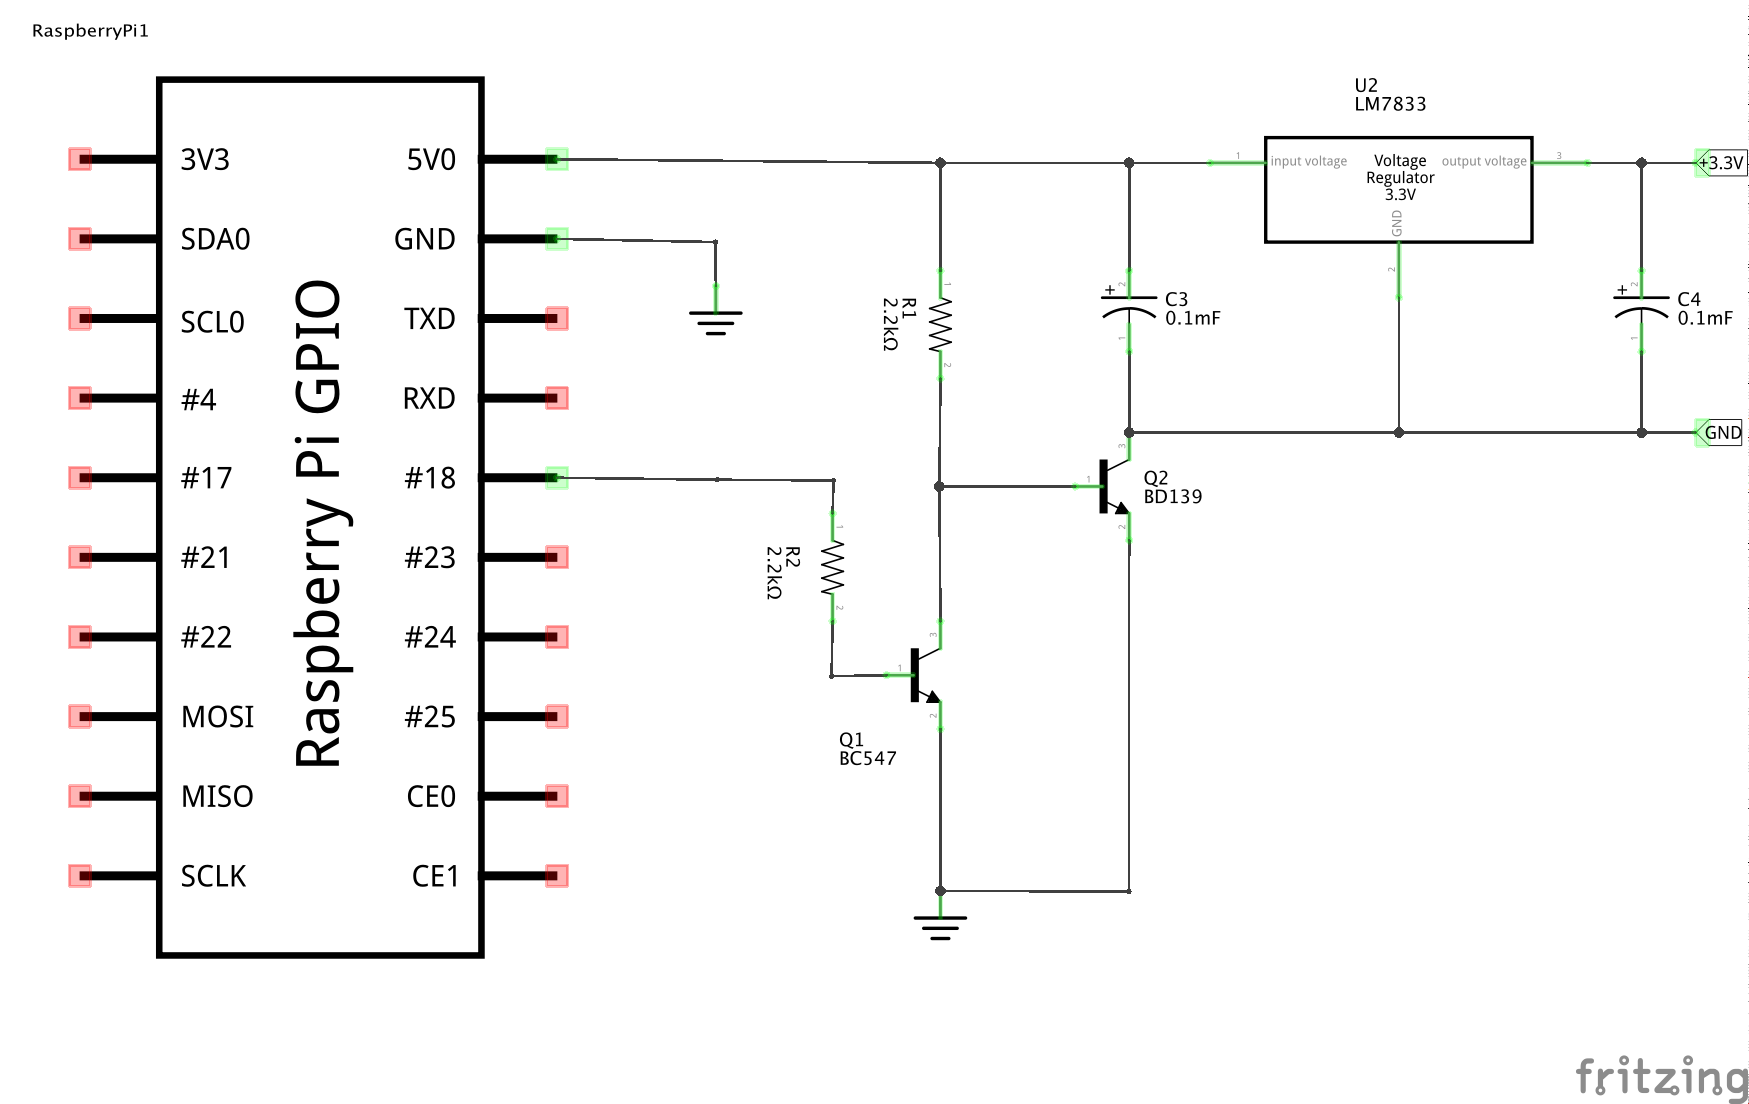
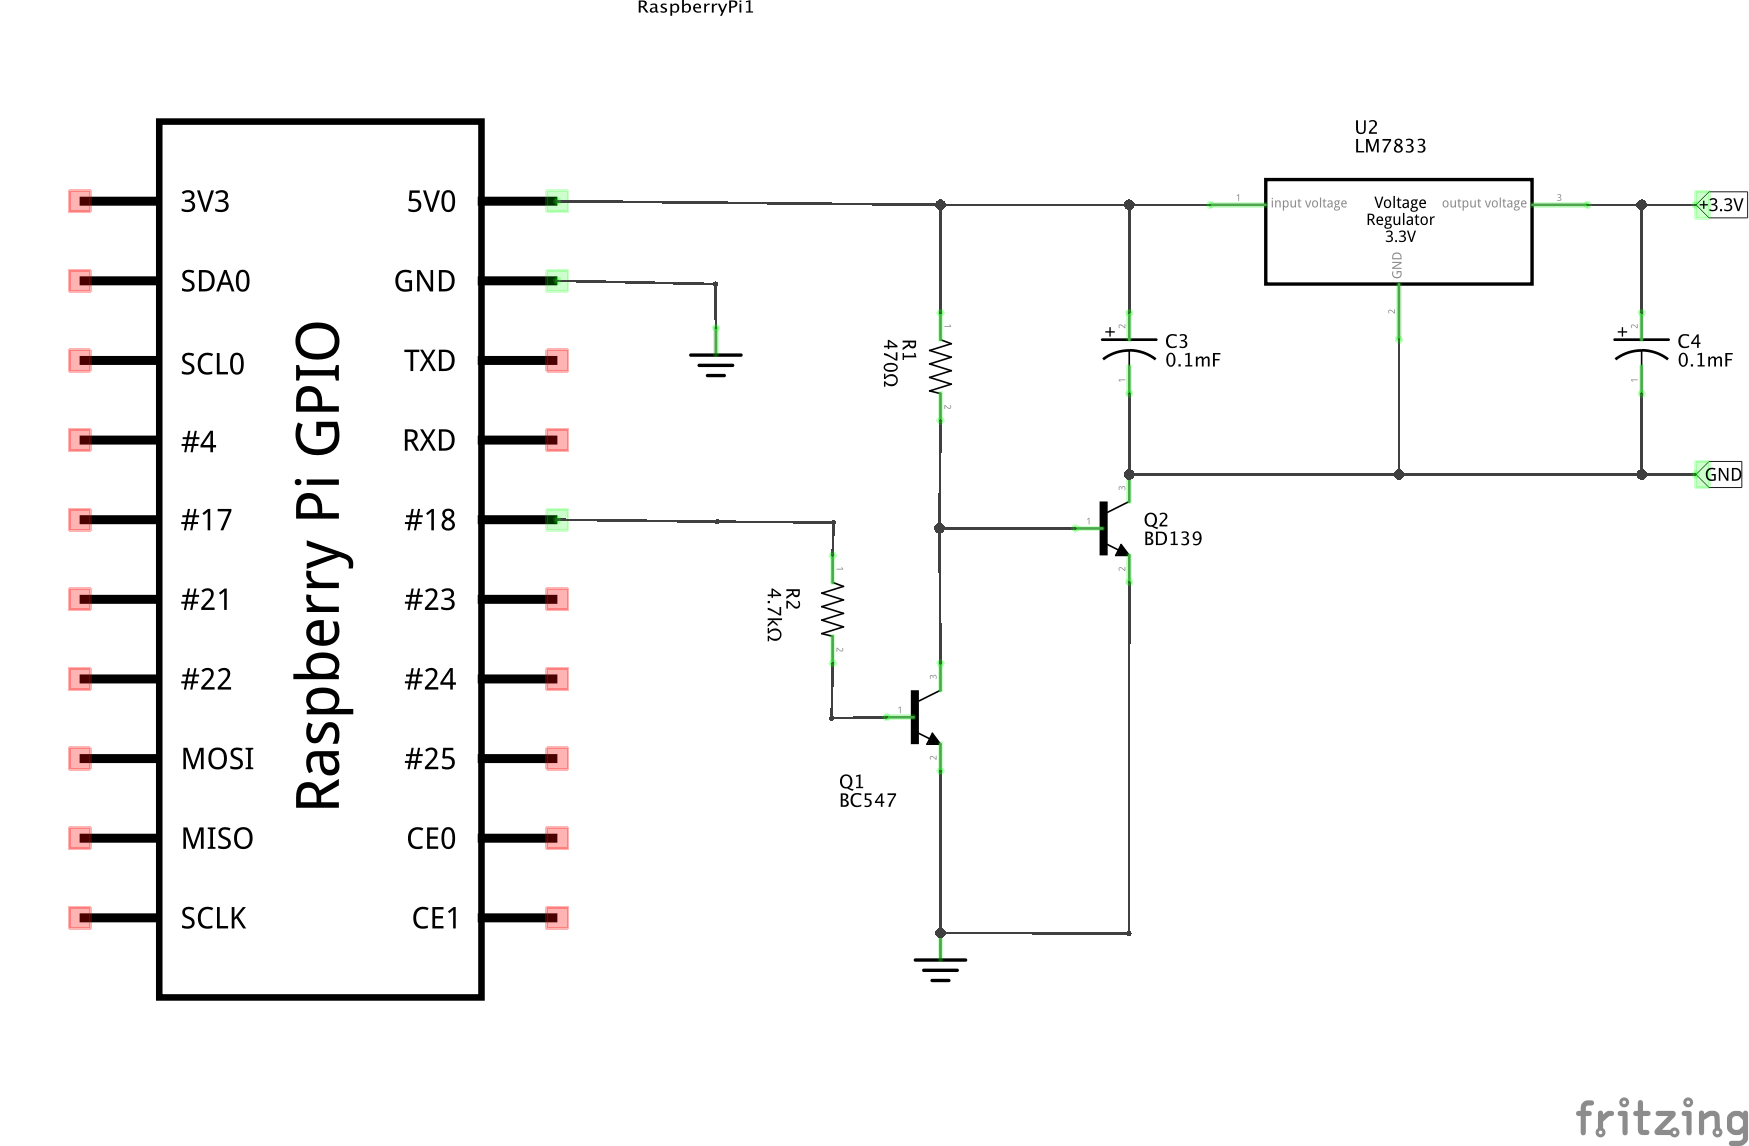
electrical bugfix

diff --git a/power_cutter.py b/power_cutter.py
@@ -1,3 +1,6 @@
+#!/usr/bin/env python
+# -*- coding: utf-8 -*- 
+
 import RPi.GPIO as GPIO
 import time
 

diff --git a/README.md b/README.md
@@ -1,15 +1,16 @@
 PowerCutter
 ===========
 
-Simple 3.3V power source for Raspberry Pi pheripherials. Power source can be switched on/off using one of Raspberry Pi GPIOs
+Simple 3.3V power source for Raspberry Pi pheripherials. Power source can be switched on/off using one of Raspberry Pi GPIOs.
 
-Requirements:
+#Requirements:
 * Raspberry Pi
 * Python
 * RPi.GPIO module https://pypi.python.org/pypi/RPi.GPIO
 
-Parts:
-* 2x 2.2kOhm resistors
+#Parts:
+* 4.7 kOhm resistor
+* 470 Ohm resistor
 * 2x 100nF capacitors
 * BC547 transistor
 * BD139 transistor
@@ -17,3 +18,7 @@ Parts:
 
 ![Schema](schema.png)
 ![Example](img.jpg)
+
+#Notes
+
+In this configuration BD139 transistor can provide up to 300mA without voltage drop. Although LM7833 can live with this, I suggest not to draw more than 250mA from device.
